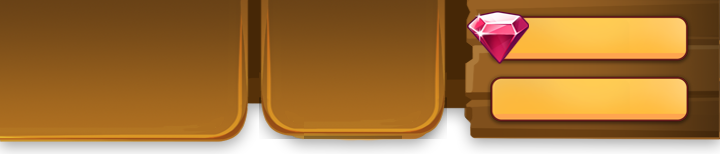
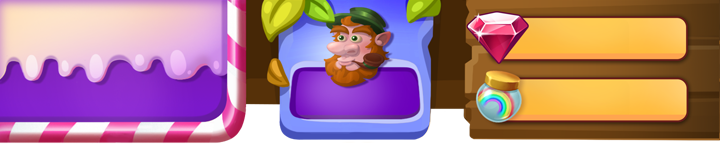
add new bar

diff --git a/src/scripts/scenes/Event/EventBars.ts b/src/scripts/scenes/Event/EventBars.ts
@@ -211,8 +211,6 @@ class EventBars extends Phaser.Scene {
       color: '#7B3B0D'
     }).setDepth(1).setOrigin(0.5, 0.5);
 
-    this.add.sprite(498, 100, 'eventCoin').setScale(0.22);
-
     let addDiamonds: Phaser.GameObjects.Sprite = this.add.sprite(680, 38, 'plus').setDepth(2);
     let addMoney: Phaser.GameObjects.Sprite = this.add.sprite(680, 100, 'plus').setDepth(2);
 
@@ -261,9 +259,9 @@ class EventBars extends Phaser.Scene {
     this.animalPriceBubble.fillStyle(0xFFFFFF, 1);
     this.animalPriceBubble.fillRoundedRect(0, 0, bounds.width + 30, bounds.height, 8);
 
-    this.proceedsText = this.add.text(this.cameras.main.centerX, 75, '0', {
-      font: '44px Shadow',
-      color: '#124C03'
+    this.proceedsText = this.add.text(this.cameras.main.centerX, 100, '0', {
+      font: '21px Shadow',
+      color: '#f2ede4'
     }).setOrigin(0.5, 0.5);
 
   }

diff --git a/src/scripts/scenes/Event/interval.ts b/src/scripts/scenes/Event/interval.ts
@@ -141,7 +141,7 @@ function interval(): void {
           proceeds += price;
         }
       });
-      this.game.scene.keys['EventBars'].proceedsText.setText(shortNum(proceeds / BigInt(10)));
+      this.game.scene.keys['EventBars'].proceedsText.setText(shortNum(proceeds / BigInt(10)) + '/' + this.state.lang.seconds);
   
     } else {
       this.game.scene.keys['EventBars'].proceedsText.setText('0');
